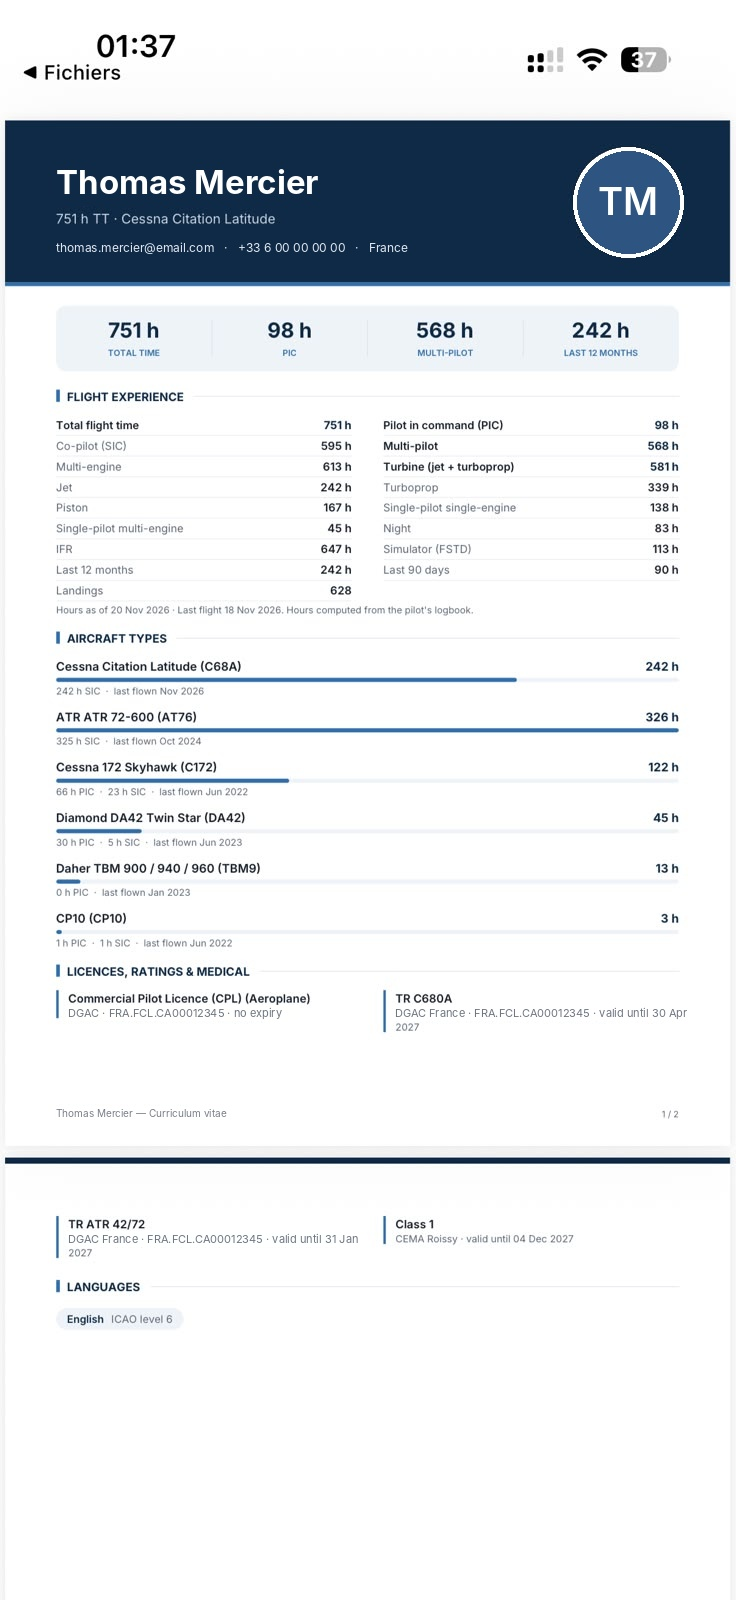
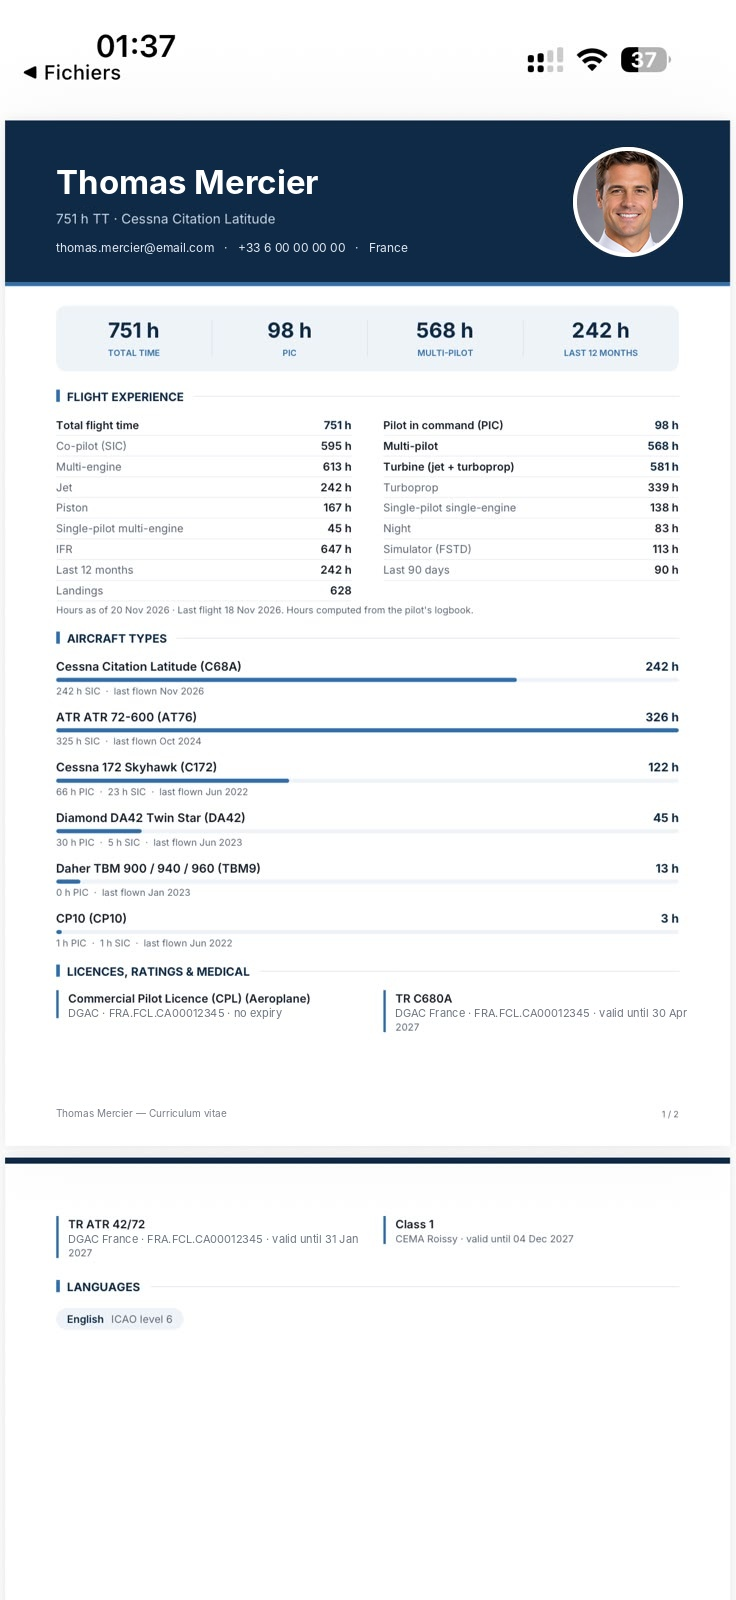
App Store screenshots: full series of 9 (fictional pilot, generated portrait, fictional registrations)
Claude-Session: https://claude.ai/code/session_01EPNtjHp8bccUBpSkHyegiD

Changed region(s): [[0.7812, 0.0938, 0.9375, 0.1875]]

diff --git a/scripts/appstore/shots/edit/anonymize.py b/scripts/appstore/shots/edit/anonymize.py
@@ -1,7 +1,9 @@
 """Raw captures with the pilot's own data swapped for a fictional pilot (name, photo, contact, licence, airline)."""
 import sys
+from pathlib import Path
 from PIL import Image, ImageDraw, ImageFont
 
+HERE = Path(__file__).parent
 INTER = "/usr/share/fonts/opentype/inter/Inter-{}.otf"
 def font(weight, size): return ImageFont.truetype(INTER.format(weight), size)
 
@@ -28,13 +30,17 @@ def cv(src, dst):
     text(im, (56, 162), "Thomas Mercier", "Bold", 33, (255, 255, 255))
     erase(im, (50, 238, 360, 258), left=(45, 248), right=(380, 248))
     text(im, (56, 240), "thomas.mercier@email.com   ·   +33 6 00 00 00 00   ·   France", "Regular", 12, (226, 232, 240))
+    # photo: a fictional pilot (generated portrait), in the white ring of the original
     d = ImageDraw.Draw(im)
     cx, cy, r = 628, 202, 55
-    d.ellipse((cx - r, cy - r, cx + r, cy + r), fill=(255, 255, 255))
-    d.ellipse((cx - r + 4, cy - r + 4, cx + r - 4, cy + r - 4), fill=(46, 84, 130))
-    f = font("SemiBold", 38)
-    w = d.textlength("TM", font=f)
-    d.text((cx - w / 2, cy - 24), "TM", font=f, fill=(255, 255, 255))
+    ring = Image.new("L", (r * 16, r * 16), 0)
+    ImageDraw.Draw(ring).ellipse((0, 0, r * 16 - 1, r * 16 - 1), fill=255)
+    im.paste((255, 255, 255), (cx - r, cy - r, cx + r, cy + r), ring.resize((r * 2, r * 2), Image.LANCZOS))
+    inner = r - 4
+    face = Image.open(HERE / "portrait.png").convert("RGB").crop((230, 70, 1030, 870)).resize((inner * 2, inner * 2), Image.LANCZOS)
+    mask = Image.new("L", (inner * 8, inner * 8), 0)
+    ImageDraw.Draw(mask).ellipse((0, 0, inner * 8 - 1, inner * 8 - 1), fill=255)
+    im.paste(face, (cx - inner, cy - inner), mask.resize((inner * 2, inner * 2), Image.LANCZOS))
     # licence numbers and footer
     white = (255, 255, 255)
     for box, xy, s in [
@@ -62,6 +68,22 @@ def logbook(src, dst):
         text(im, (417, f - 14), "GDN214 ·...", "Regular", 22, (150, 160, 175))
     im.save(dst, quality=95)
 
+def dashboard(src, dst):
+    im = Image.open(src).convert("RGB")
+    erase(im, (203, 222, 290, 255))
+    ImageDraw.Draw(im).text((206, 247), "Thomas", font=font("Regular", 27), fill=(150, 163, 182), anchor="ls")
+    im.save(dst, quality=95)
+
+def radar(src, dst):
+    im = Image.open(src).convert("RGB")
+    d = ImageDraw.Draw(im)
+    f = font("Medium", 24)
+    for (x0, x1), reg in zip([(25, 141), (155, 270), (282, 402), (415, 528), (541, 656)], ["F-HGDN", "F-HGDW", "F-HGDX", "D-IGDN", "D-IGDW"]):
+        chip = im.getpixel((x0 + 10, 360))
+        d.rectangle((x0 + 9, 361, x1 - 9, 391), fill=chip)
+        d.text(((x0 + x1) / 2, 384), reg, font=f, fill=(240, 244, 248), anchor="ms")
+    im.save(dst, quality=95)
+
 if __name__ == "__main__":
     kind, src, dst = sys.argv[1:4]
-    {"cv": cv, "logbook": logbook}[kind](src, dst)
+    {"cv": cv, "logbook": logbook, "dashboard": dashboard, "radar": radar}[kind](src, dst)
